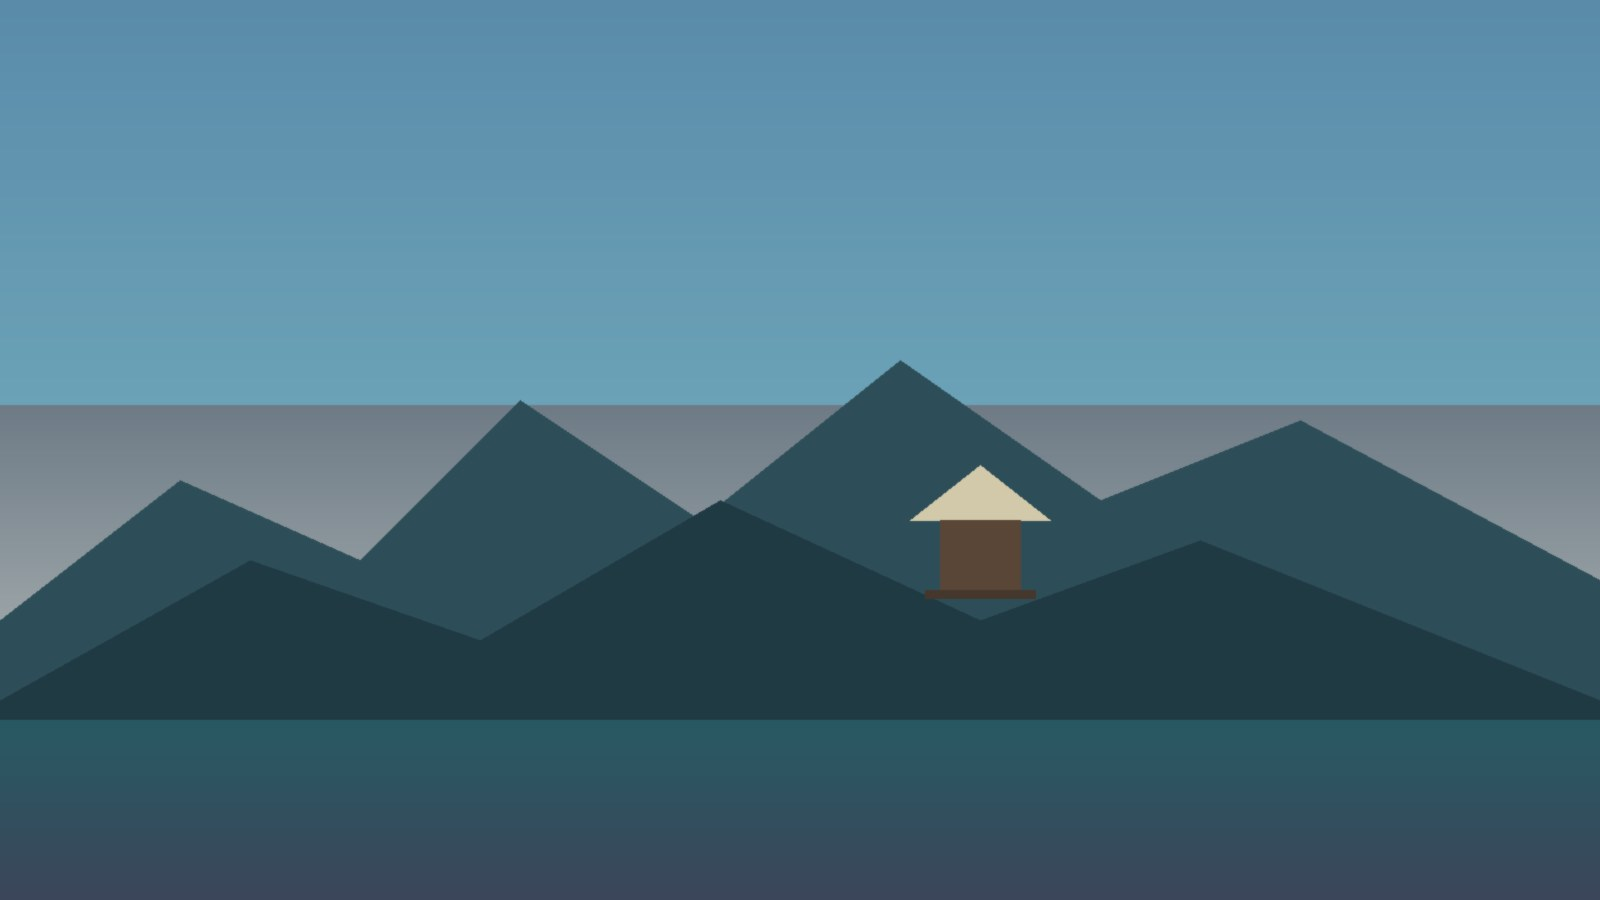
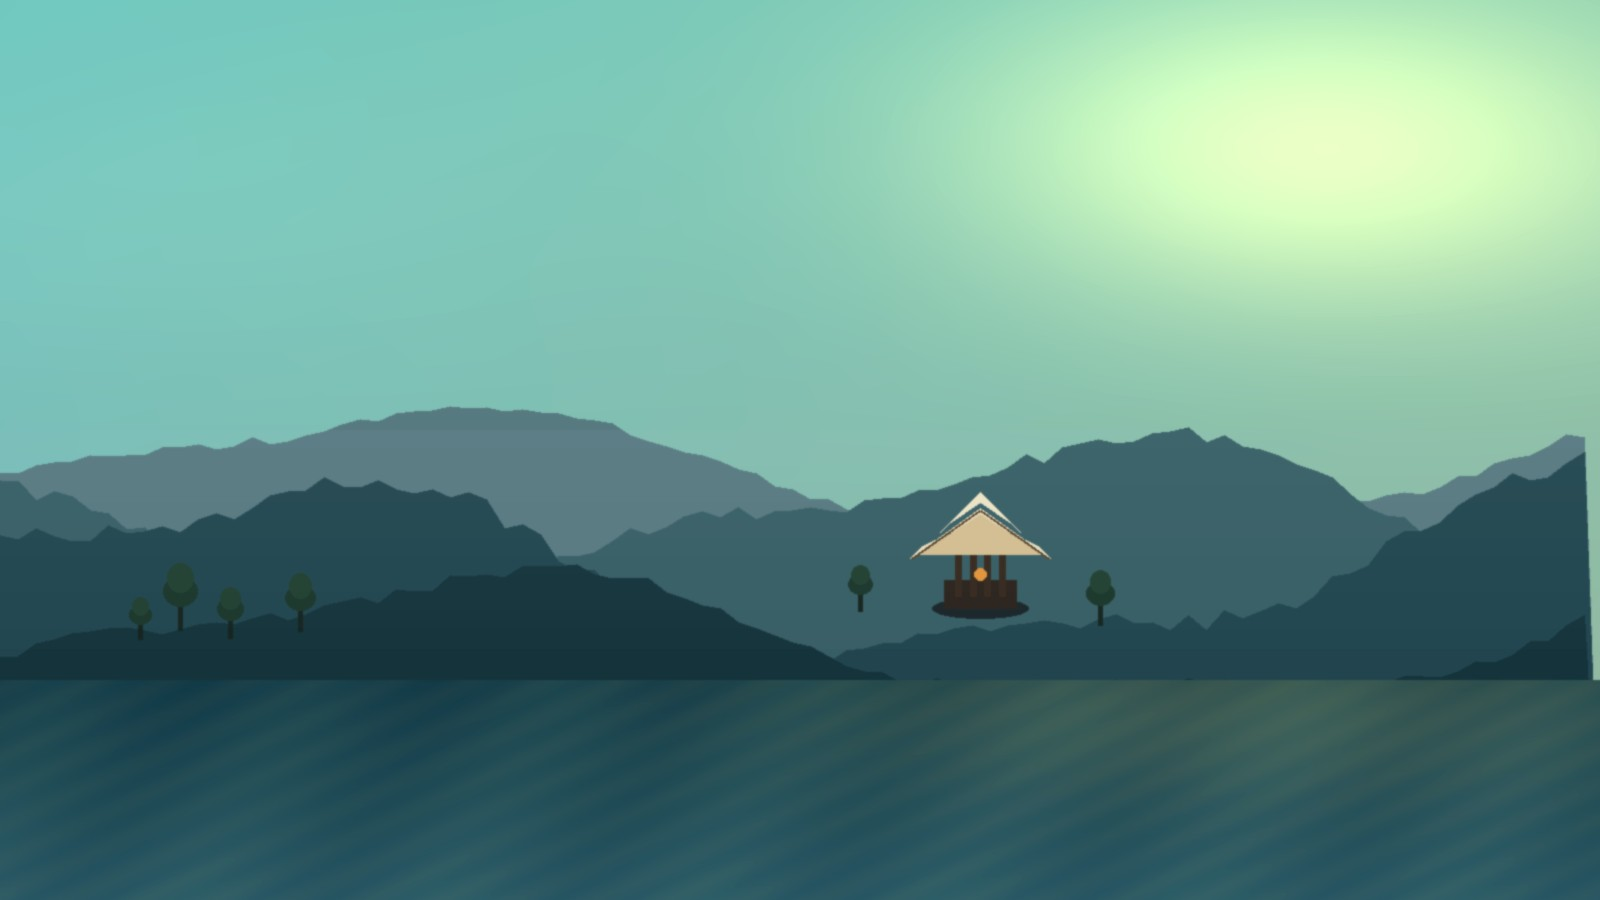
feat: user agreement, theme sun/moon colors, hero landscape
- Add USER_AGREEMENT.txt; ship with dist/installer; Kachina description
- Expand SafetyNotice/dialogs as 用户协议与安全声明
- Theme toggle: show Moon in dark / Sun in light with distinct colors
- Refresh hero landscape (design zip had no image asset)
- Pack installer side art via kachina -t installer-side.webp

diff --git a/src/Ui/src/App.tsx b/src/Ui/src/App.tsx
@@ -416,8 +416,10 @@ export default function App() {
             <div className="topbar-actions">
               {native ? <span className="preview-label is-native"><ShieldCheck size={13} />桌面版</span>
                 : <span className="preview-label">浏览器预览</span>}
-              <button className="icon-button theme-button" onClick={() => setTheme(theme === 'dark' ? 'light' : 'dark')} aria-label={theme === 'dark' ? '切换到浅色模式' : '切换到深色模式'}>
-                {theme === 'dark' ? <Sun size={18} strokeWidth={1.5} /> : <Moon size={18} strokeWidth={1.5} />}
+              <button className="icon-button theme-button" onClick={() => setTheme(theme === 'dark' ? 'light' : 'dark')} aria-label={theme === 'dark' ? '切换到浅色模式' : '切换到深色模式'} title={theme === 'dark' ? '切换到浅色模式' : '切换到深色模式'}>
+                {theme === 'dark'
+                  ? <Moon size={18} strokeWidth={1.5} className="theme-icon theme-icon-moon" />
+                  : <Sun size={18} strokeWidth={1.5} className="theme-icon theme-icon-sun" />}
               </button>
               <span className="topbar-divider" />
               <a className="github-link" href={PROJECT_URL} target="_blank" rel="noreferrer" aria-label="在 GitHub 查看项目"><GithubIcon size={17} /><span>GitHub</span><ArrowUpRight size={12} /></a>
@@ -448,7 +450,7 @@ export default function App() {
                     </button>
                   </div>
                 </motion.section>
-                <div className="overview-tip"><ShieldCheck size={16} strokeWidth={1.6} /><p><span>冒险小贴士</span>请先关闭游戏内垂直同步（V-Sync）。第三方工具存在使用风险，使用前请阅读<button onClick={() => setModal('safety')}>安全声明<ArrowUpRight size={12} /></button></p><button className="icon-button tip-help" onClick={() => navigate('guide')} aria-label="查看使用帮助"><CircleHelp size={16} /></button></div>
+                <div className="overview-tip"><ShieldCheck size={16} strokeWidth={1.6} /><p><span>冒险小贴士</span>请先关闭游戏内垂直同步（V-Sync）。第三方工具存在使用风险，使用前请阅读<button onClick={() => setModal('safety')}>用户协议<ArrowUpRight size={12} /></button></p><button className="icon-button tip-help" onClick={() => navigate('guide')} aria-label="查看使用帮助"><CircleHelp size={16} /></button></div>
               </>}
               {page === 'settings' && <SettingsPage config={config} updateConfig={updateConfig} onPath={() => setModal('path')} onExport={exportConfig} onImport={() => importRef.current?.click()} onReset={() => setModal('reset')} onUninstall={native ? () => setModal('uninstall') : undefined} busy={launchState === 'launching'} isNative={native} />}
               {page === 'logs' && <LogsPage logs={logs} onClear={() => setModal('clearLogs')} onExport={exportLogs} isNative={native} onOpenFolder={native ? () => { void nativeInvoke('openLogFolder').catch(() => undefined); } : undefined} />}

diff --git a/src/Ui/src/pages/GuidePage.tsx b/src/Ui/src/pages/GuidePage.tsx
@@ -10,7 +10,7 @@ const FAQ_NATIVE = [
   { q: '关闭窗口后，解锁器还会运行吗？', a: '会。关闭或最小化窗口会将应用隐藏到系统托盘，后台监视继续运行。需要完全退出时，请从托盘菜单选择「退出」。也可在状态栏点击「驻留托盘」。' },
   { q: '支持国服与国际服吗？', a: '支持。国服请选择 YuanShen.exe，国际服请选择 GenshinImpact.exe。请使用游戏本体的完整路径，不要选择启动器或下载器。可用「自动查找」或「浏览本地文件」。' },
   { q: '配置保存在哪里？', a: '配置文件：%LocalAppData%\\GenshinFpsUnlocker\\config.json。可在「游戏设置 → 高级设置」导入/导出。日志在同一目录下的 logs 文件夹。' },
-  { q: '使用这个工具会有账号风险吗？', a: '有风险。本工具通过第三方模块注入调整帧率，并非官方功能，可能违反游戏服务条款。项目无法保证账号安全；是否使用由你自行决定。请先完整阅读安全声明。' },
+  { q: '使用这个工具会有账号风险吗？', a: '有风险。本工具通过第三方模块注入调整帧率，并非官方功能，可能违反游戏服务条款。项目无法保证账号安全；是否使用由你自行决定。请先完整阅读用户协议与安全声明。' },
 ];
 
 const FAQ_WEB = [
@@ -41,6 +41,6 @@ export function GuidePage({ navigate, onSafety, isNative }: { navigate: (page: P
       <div className="guide-art"><img src="/images/teyvat-landscape.jpg" alt="碧水群山之间的璃月风格亭台" /><div><span>BEYOND THE FRAME</span><p>不止是更高的帧率，<br />更是沉浸的每一刻。</p></div></div>
     </div>
     <section className="faq-section"><h2>你可能想知道</h2><div className="faq-list">{faq.map((item, index) => <div className={`faq-item ${expanded === index ? 'is-open' : ''}`} key={item.q}><button aria-expanded={expanded === index} aria-controls={`faq-${index}`} onClick={() => setExpanded(expanded === index ? null : index)}>{item.q}<ChevronDown size={17} /></button><AnimatePresence initial={false}>{expanded === index && <motion.div id={`faq-${index}`} initial={{ height: 0, opacity: 0 }} animate={{ height: 'auto', opacity: 1 }} exit={{ height: 0, opacity: 0 }} transition={{ duration: 0.2 }}><p>{item.a}</p></motion.div>}</AnimatePresence></div>)}</div></section>
-    <div className="guide-safety"><ShieldCheck size={20} /><div><strong>保持知情，安心选择</strong><p>第三方工具存在使用风险，使用前请仔细阅读安全声明。</p></div><button className="text-button" onClick={onSafety}>阅读安全声明<ArrowRight size={15} /></button></div>
+    <div className="guide-safety"><ShieldCheck size={20} /><div><strong>保持知情，安心选择</strong><p>第三方工具存在使用风险，使用前请仔细阅读用户协议与安全声明。</p></div><button className="text-button" onClick={onSafety}>阅读用户协议<ArrowRight size={15} /></button></div>
   </>;
 }

diff --git a/src/Ui/src/pages/AboutPage.tsx b/src/Ui/src/pages/AboutPage.tsx
@@ -8,6 +8,6 @@ export function AboutPage({ onSafety, version = '1.0.0', isNative, onUninstall }
     <PageHeading title="关于项目" description="源于热爱，保持开放。" />
     <section className="about-intro"><BrandMark className="about-brand-mark" /><div><span className="section-kicker">LESS LIMITS. MORE ADVENTURE.</span><h2>Genshin<br />FPS Unlocker<span className="about-version">v{version}</span></h2><p>一个轻量、开源的原神帧率解锁工具。<br />自定义目标帧率，让你的硬件潜力与冒险一起释放。</p><div className="about-actions"><a className="button button-primary" href={PROJECT_URL} target="_blank" rel="noreferrer"><Github size={17} />访问 GitHub<ArrowUpRight size={15} /></a><a className="button button-secondary" href={`${PROJECT_URL}/releases`} target="_blank" rel="noreferrer">查看发行版本<ArrowUpRight size={15} /></a></div></div></section>
     <div className="about-details"><section><h3><Code2 size={18} />为轻量而构建</h3><dl><div><dt>项目作者</dt><dd><a href="https://github.com/bainian-gudu" target="_blank" rel="noreferrer">bainian-gudu<ArrowUpRight size={12} /></a></dd></div><div><dt>支持平台</dt><dd>Windows 10 (1607+) / Windows 11 · x64</dd></div><div><dt>桌面运行时</dt><dd>.NET Desktop Runtime 9 · WebView2</dd></div><div><dt>开源许可</dt><dd><a href={`${PROJECT_URL}/blob/main/LICENSE`} target="_blank" rel="noreferrer">MIT License<ArrowUpRight size={12} /></a></dd></div></dl></section><section><h3><Heart size={18} />开放，让体验更好</h3><p>项目代码公开透明。欢迎提交问题、分享建议，或用一次 Pull Request 让它变得更好。</p><div className="about-text-links"><a href={`${PROJECT_URL}/issues`} target="_blank" rel="noreferrer">反馈问题<ArrowUpRight size={14} /></a><a href={`${PROJECT_URL}/pulls`} target="_blank" rel="noreferrer">参与贡献<ArrowUpRight size={14} /></a></div>{isNative && onUninstall && <button className="text-button muted preview-about-button" onClick={onUninstall}>卸载本软件</button>}</section></div>
-    <div className="about-disclaimer"><ShieldCheck size={18} /><p>本项目为第三方工具，与米哈游 / HoYoverse 无关联。使用风险自负。<button className="text-button" onClick={onSafety}>查看安全声明</button></p></div>
+    <div className="about-disclaimer"><ShieldCheck size={18} /><p>本项目为第三方工具，与米哈游 / HoYoverse 无关联。使用风险自负。<button className="text-button" onClick={onSafety}>查看用户协议</button></p></div>
   </>;
 }

diff --git a/src/Ui/src/pages/SettingsPage.tsx b/src/Ui/src/pages/SettingsPage.tsx
@@ -63,7 +63,7 @@ export function SettingsPage({ config, updateConfig, onPath, onExport, onImport,
         <ToggleRow title="开机自启动" description="登录 Windows 后自动启动，在后台等待游戏运行" checked={config.autoStartWithWindows} onChange={(value) => updateConfig('autoStartWithWindows', value)} />
         <ToggleRow title="启动后最小化到托盘" description="开启：下次启动直接进托盘。关闭主窗口或点最小化 → 始终进入托盘后台（托盘「退出」才结束）" checked={config.startMinimized} onChange={(value) => updateConfig('startMinimized', value)} />
         <ToggleRow title="维护桌面快捷方式" description="桌面版安装或启动时，确保桌面快捷方式可用" checked={config.createDesktopShortcut} onChange={(value) => updateConfig('createDesktopShortcut', value)} />
-        <ToggleRow title="启动时显示安全声明" description="每次手动启动时提醒第三方工具的使用风险" checked={config.showSafetyNoticeOnStartup} onChange={(value) => updateConfig('showSafetyNoticeOnStartup', value)} />
+        <ToggleRow title="启动时显示用户协议" description="每次手动启动时展示用户协议与安全声明" checked={config.showSafetyNoticeOnStartup} onChange={(value) => updateConfig('showSafetyNoticeOnStartup', value)} />
       </section>}
       {tab === 'advanced' && <>
         <section className="control-panel setting-list"><div className="section-intro"><h2>后台与诊断</h2><p>默认值适用于日常使用，仅在需要时调整。</p></div>

diff --git a/src/Ui/src/index.css b/src/Ui/src/index.css
@@ -124,8 +124,17 @@ svg { flex-shrink: 0; }
 .icon-button:hover { background: var(--hover); color: var(--text); }
 .icon-button:active { transform: scale(.94); }
 .sidebar-close, .mobile-menu-button { display: none; }
-.theme-button svg { transition: transform .3s; }
+.theme-button svg { transition: transform .3s, color .2s; }
 .theme-button:hover svg { transform: rotate(20deg); }
+/* 太阳/月亮配色：浅色主题用暖金太阳，深色主题用冷银月亮（相对原统一 muted 对调为语义色） */
+.theme-button .theme-icon-sun { color: #d4a017; }
+.theme-button:hover .theme-icon-sun { color: #f0c14a; }
+.theme-button .theme-icon-moon { color: #8fa3d4; }
+.theme-button:hover .theme-icon-moon { color: #c5d0f0; }
+:root[data-theme='light'] .theme-button .theme-icon-sun { color: #c48912; }
+:root[data-theme='light'] .theme-button:hover .theme-icon-sun { color: #a8740e; }
+:root[data-theme='light'] .theme-button .theme-icon-moon { color: #5a6f9e; }
+:root[data-theme='light'] .theme-button:hover .theme-icon-moon { color: #3d5080; }
 .topbar-divider { height: 16px; width: 1px; background: var(--border); }
 .github-link { display: flex; align-items: center; gap: 7px; color: var(--secondary); font-size: 11px; transition: color .15s; }
 .github-link:hover { color: var(--text); }

diff --git a/src/Ui/src/components/Dialogs.tsx b/src/Ui/src/components/Dialogs.tsx
@@ -82,12 +82,12 @@ export function SafetyDialog({ onClose, onAcknowledge, isNative }: {
     }).catch(() => { /* fallback content */ });
   }, [isNative]);
   return (
-    <Modal title="安全声明" description="在追求流畅之前，了解并掌握你的选择。" icon={ShieldCheck} onClose={onClose}
+    <Modal title="用户协议与安全声明" description="安装与使用前，请阅读并了解相关风险与责任。" icon={ShieldCheck} onClose={onClose}
       footer={<>
         <a className="text-button muted" href={`${PROJECT_URL}#安全说明`} target="_blank" rel="noreferrer">项目安全说明<ArrowUpRight size={14} /></a>
         {onAcknowledge
-          ? <button className="button button-primary" onClick={() => void onAcknowledge(showOnStartup)}>我已了解并继续</button>
-          : <button className="button button-primary" onClick={onClose}>我已了解</button>}
+          ? <button className="button button-primary" onClick={() => void onAcknowledge(showOnStartup)}>我已阅读并同意</button>
+          : <button className="button button-primary" onClick={onClose}>我已阅读并同意</button>}
       </>}>
       <SafetyContent fullText={fullText} />
       {onAcknowledge && (

diff --git a/src/Host/SafetyNotice.cs b/src/Host/SafetyNotice.cs
@@ -1,26 +1,35 @@
 namespace GenshinFpsUnlocker.Host;
 
 /// <summary>
-/// 面向用户的安全声明与风险提示。
+/// 面向用户的用户协议、安全声明与风险提示。
 /// 明确本工具属于《米哈游用户协议》第十条第二款所述第三方工具范畴，
 /// 使用风险由用户自行承担；软件方不承担由此导致的损失。
 /// </summary>
 internal static class SafetyNotice
 {
     /// <summary>对话框标题。</summary>
-    public const string Title = "安全声明与风险提示";
+    public const string Title = "用户协议与安全声明";
 
     /// <summary>短摘要（托盘/状态栏可用）。</summary>
     public const string ShortSummary =
         "本软件及注入功能属于《米哈游用户协议》第十条第二款规定的“插件、外挂或非经合法授权的第三方工具/服务”，" +
         "使用风险由您自行承担。";
 
-    /// <summary>完整声明正文（启动/首次确认对话框）。</summary>
+    /// <summary>完整用户协议与安全声明正文（安装确认 / 启动 / 首次对话框）。</summary>
     public const string FullText =
         """
-        【安全声明与风险提示】
+        【Genshin FPS Unlocker 用户协议与安全声明】
+        版本 1.0.0
 
-        一、与《米哈游用户协议》相关的说明
+        安装、启动或使用本软件，即视为您已阅读并同意下列全部条款。
+        完整文本亦见安装目录中的 USER_AGREEMENT.txt。
+
+        一、软件性质
+
+        1. 本软件为独立第三方开源工具（MIT），与米哈游 / HoYoverse 无关联、无授权、无背书。
+        2. 开源许可不免除您遵守本协议及游戏服务条款的义务。
+
+        二、与《米哈游用户协议》相关的说明
 
         本软件及注入功能属于《米哈游用户协议》第十条第二款规定的
         “插件、外挂或非经合法授权的第三方工具/服务”。
@@ -28,23 +37,25 @@ internal static class SafetyNotice
         您需要自行承担因使用内容而引起的所有风险，本软件无法且不会
         对您因前述风险而导致的任何损失或损害承担责任。
 
-        二、功能范围
+        三、功能范围
 
         本工具仅尝试解除客户端帧率上限（自定义目标 FPS），
         不包含视野、去雾、自动操作等其它修改。
         帧率调整本身不改变游戏数值与公平性相关逻辑，但仍可能违反服务条款。
 
-        三、免责与变更
+        四、免责与变更
 
         1. 使用本软件即表示您已阅读并理解上述风险。
         2. 因账号处罚、数据异常、系统不稳定等产生的一切后果由您自行承担。
         3. 出于安全或兼容性需要，本软件可能在不另行特别通知的情况下
            更新、限制或下线部分功能。
+        4. 本软件按「现状」提供，不提供适销性、特定用途等任何保证。
 
-        四、建议
+        五、建议
 
         - 请使用官方客户端；
         - 建议在了解条款后再启用解锁；
-        - 可随时通过“总开关”关闭注入与帧率强制。
+        - 可随时通过“总开关”关闭注入与帧率强制；
+        - 仅从项目官方 GitHub 获取安装包。
         """;
 }

diff --git a/src/Host/SafetyDialog.cs b/src/Host/SafetyDialog.cs
@@ -41,7 +41,7 @@ internal static class SafetyDialog
         var bottom = new Panel { Dock = DockStyle.Bottom, Height = 72, Padding = new Padding(12) };
         var dontShow = new CheckBox
         {
-            Text = "我已阅读，不再每次启动提示",
+            Text = "我已阅读并同意，不再每次启动提示",
             Checked = config.SafetyNoticeAcknowledged,
             AutoSize = true,
             Left = 12,
@@ -49,7 +49,7 @@ internal static class SafetyDialog
         };
         var ok = new Button
         {
-            Text = "我知道了",
+            Text = "同意并继续",
             Width = 100,
             Height = 30,
             Left = 420,

diff --git a/README.md b/README.md
@@ -116,9 +116,17 @@ GitHub Actions **仅手动运行**（Actions → Build → Run workflow），不
 
 将 `Install` 包发布到 Release 且 tag 为 `v{version}` 后，配置中的 GitHub 在线源即可用于更新器。
 
-## 安全说明
+## 用户协议与安全说明
 
-本工具属于第三方注入类软件，使用风险自负；详见程序内安全声明。请关闭游戏 V-Sync 后使用自定义帧率。
+安装或使用本软件前，请阅读：
+
+- 仓库根目录 [`USER_AGREEMENT.txt`](USER_AGREEMENT.txt)（完整用户协议）
+- 程序内「用户协议与安全声明」（首次运行 / 设置中可再次打开）
+
+本工具属于第三方注入类软件，适用《米哈游用户协议》第十条第二款相关表述，**使用风险由您自行承担**。
+请关闭游戏 V-Sync 后使用自定义帧率。
+
+Kachina 安装界面含「我已阅读并同意用户协议」勾选；勾选并安装即视为同意上述协议。协议正文随安装包释放为 `USER_AGREEMENT.txt`。
 
 ## License
 
